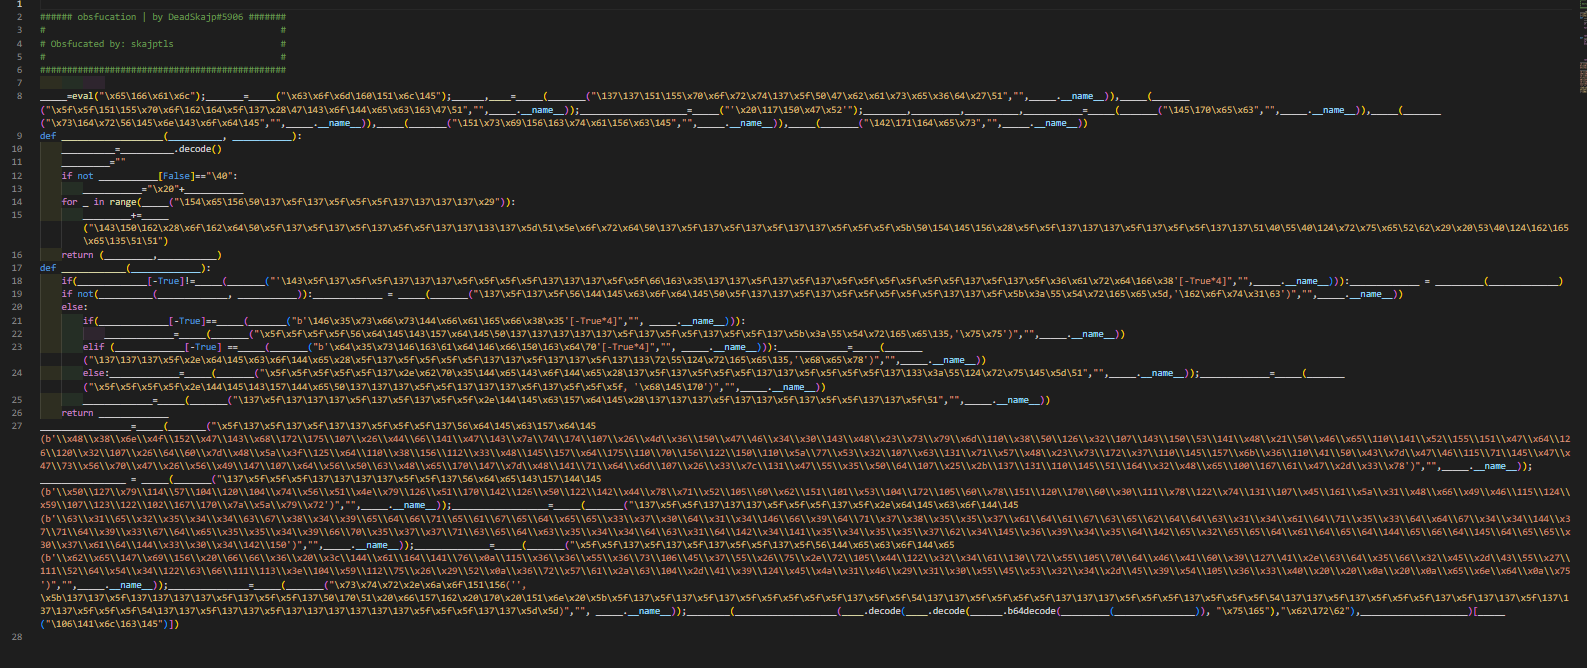
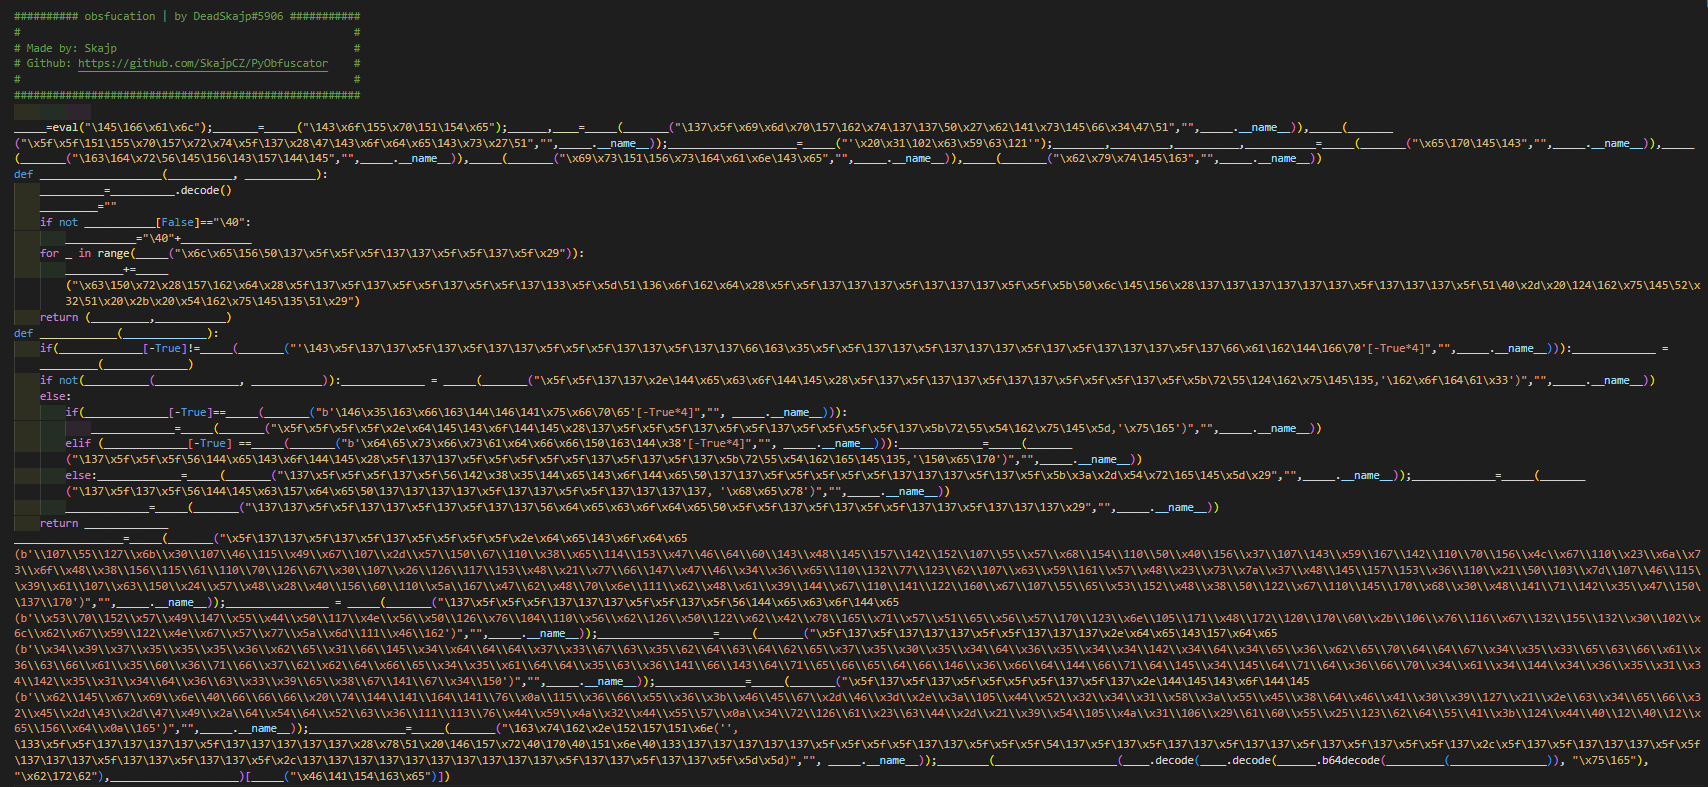
updated

diff --git a/showcase_obs.py b/showcase_obs.py
@@ -1,9 +1,10 @@
 
-###### obsfucation | by DeadSkajp#5906 #######
-#                                            #
-# Obsfucated by: skajptls                    #
-#                                            #
-##############################################
+########## obsfucation | by DeadSkajp#5906 ###########
+#                                                    #
+# Made by: Skajp                                     #
+# Github: https://github.com/SkajpCZ/PyObfuscator    #
+#                                                    #
+######################################################
             
 _____=eval("\145\166\x61\x6c");_______=_____("\143\x6f\155\x70\151\154\x65");______,____=_____(_______("\137\x5f\x69\x6d\x70\157\162\x74\137\137\50\x27\x62\141\x73\145\66\x34\47\51","",_____.__name__)),_____(_______("\x5f\x5f\151\155\x70\157\x72\x74\x5f\137\x28\47\143\x6f\x64\x65\143\x73\x27\51","",_____.__name__));____________________=_____("'\x20\x31\102\x63\x59\63\121'");________,_________,__________,___________=_____(_______("\x65\170\145\143","",_____.__name__)),_____(_______("\163\164\x72\56\145\156\143\157\144\145","",_____.__name__)),_____(_______("\x69\x73\151\156\x73\164\x61\x6e\143\x65","",_____.__name__)),_____(_______("\x62\x79\x74\145\163","",_____.__name__))
 def ___________________(__________, ___________):
